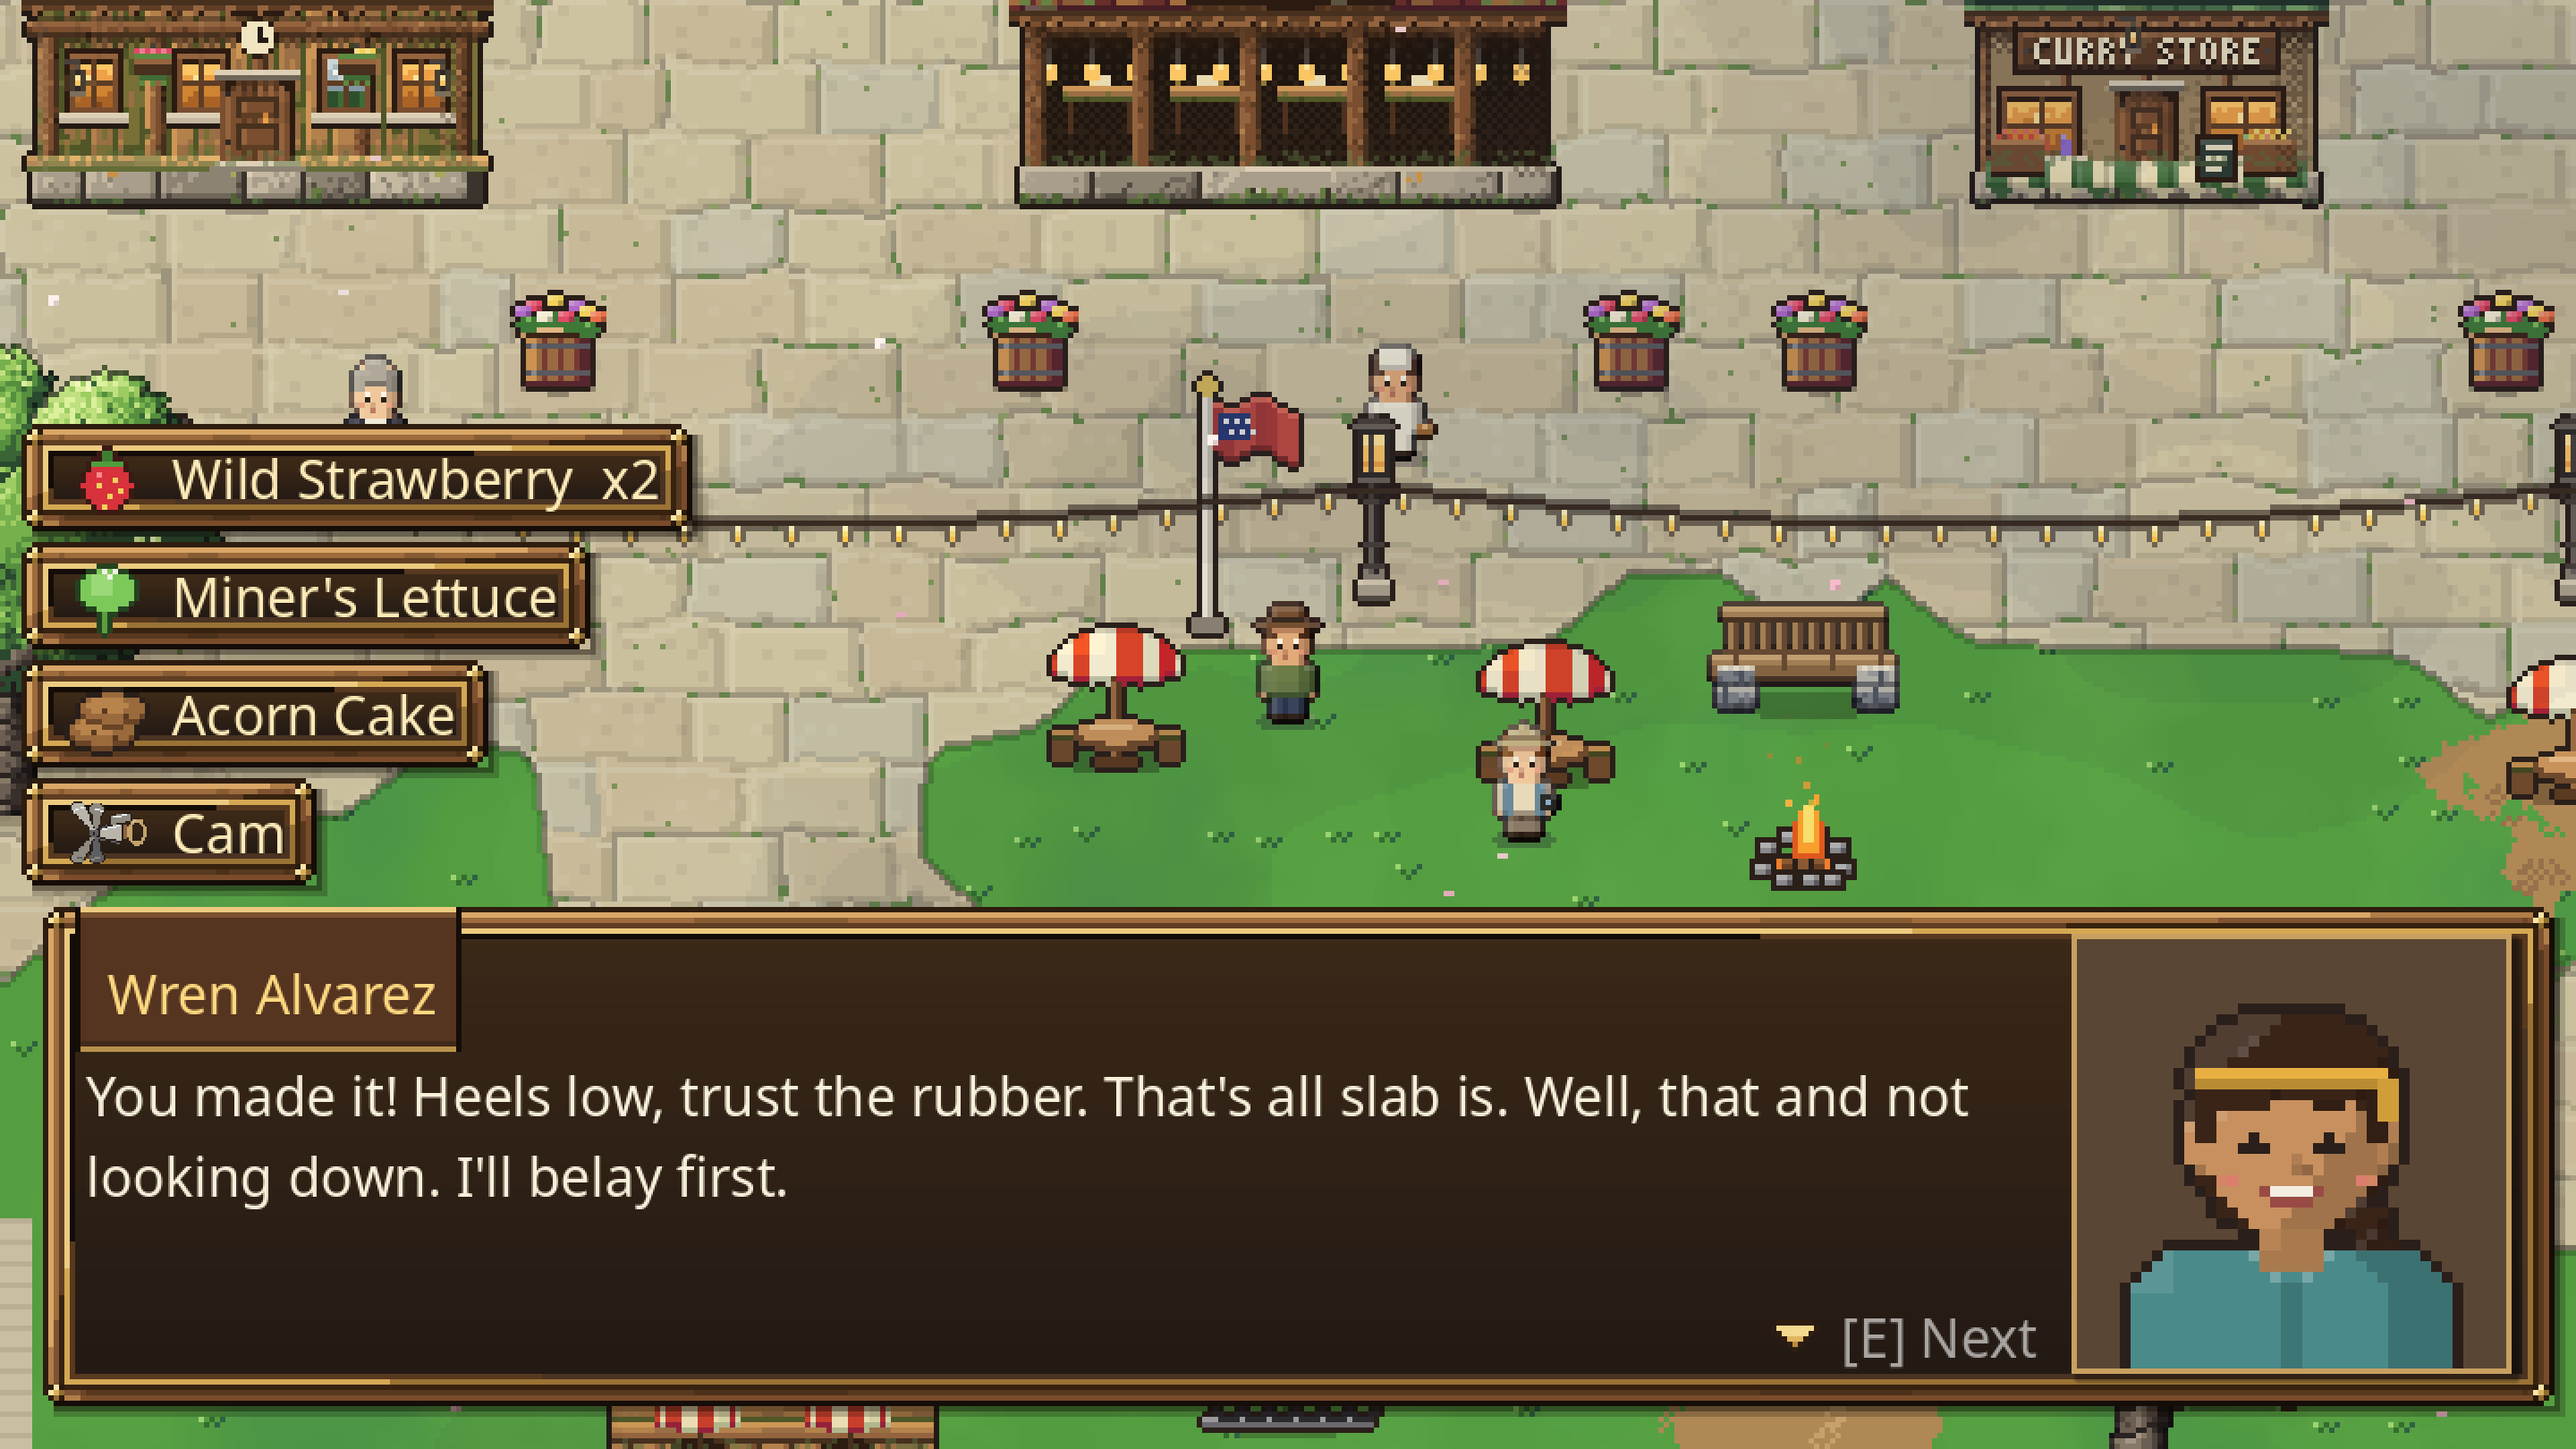
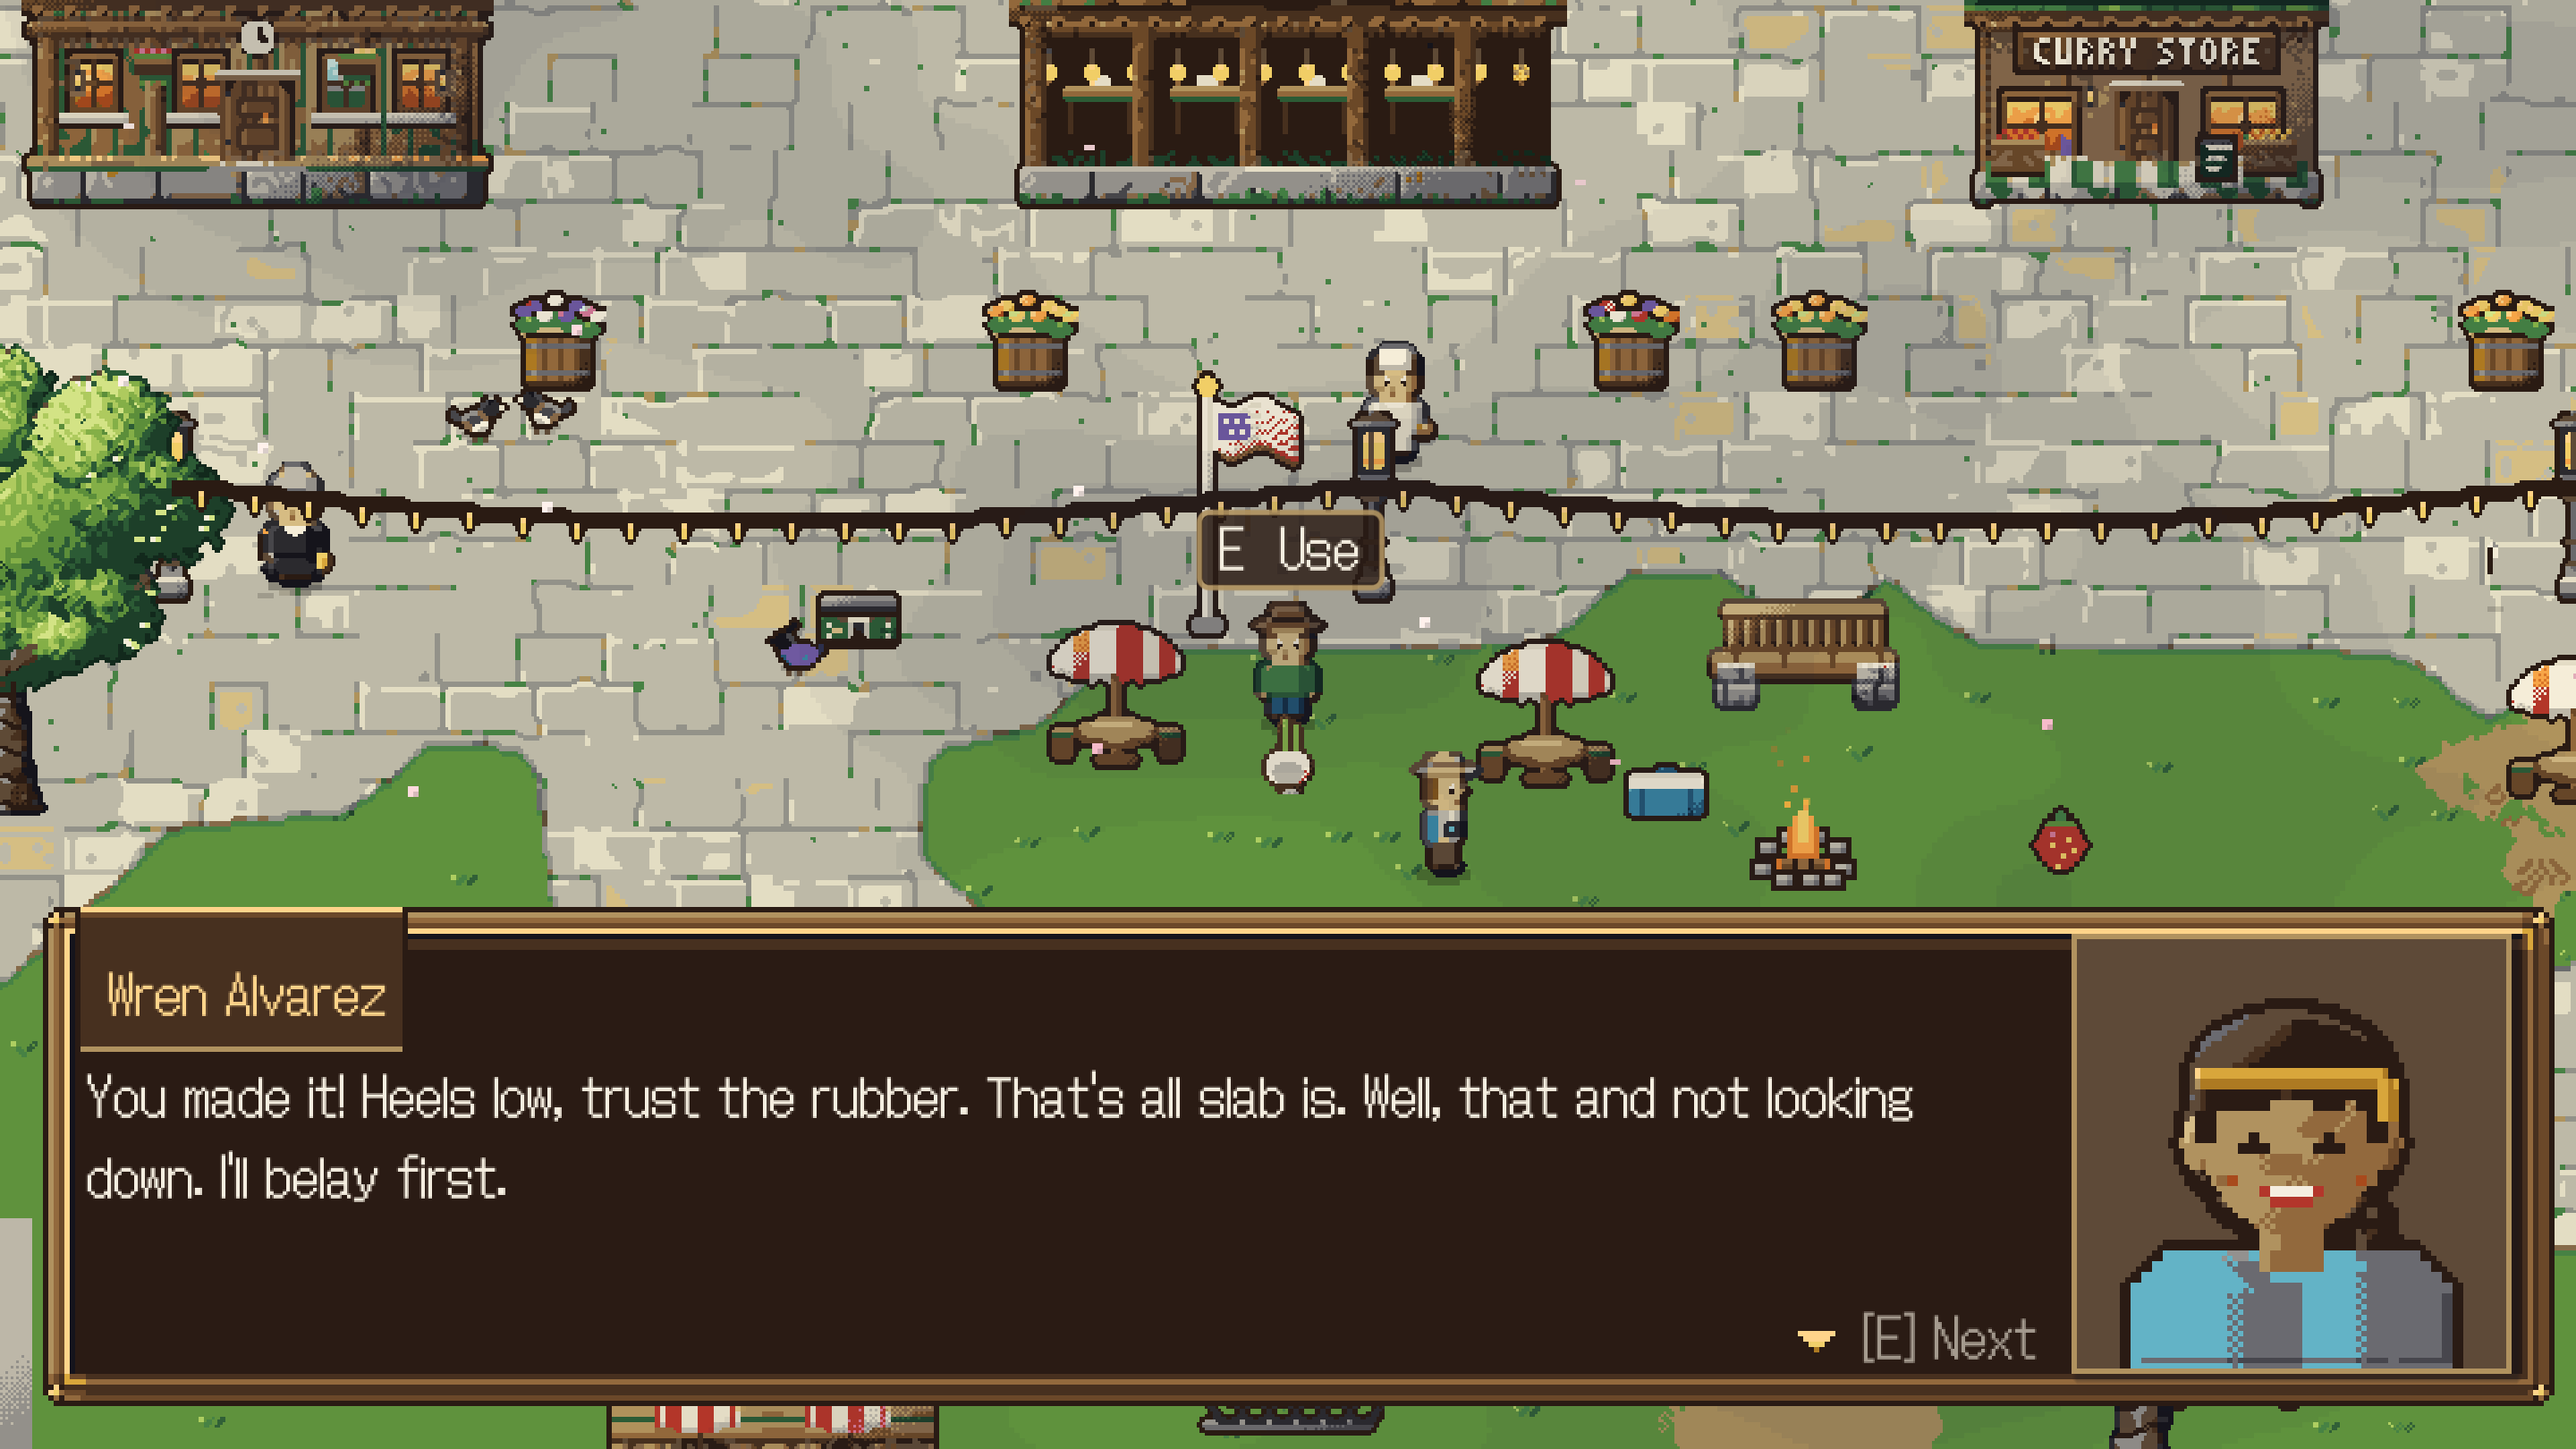
Fix the stripe through menu panels; aim the use prompt at the nearest thing
The panel inset's gradient was snapped by the palette into two tones, and
the lighter tone's last rows sat in the stretched middle of the nine-slice,
so a band an eighth of the panel's height cut through the Journal's and
Backpack's first headings and the day's page's subtitle. The lit edge now
stays inside the unstretched margin (panel.png, panel_banner.png and the
generator in tools/ui/ui_art.gd).

With two interactables in reach, Player.get_target returned whichever
overlapped first; it now picks the one nearest the middle of the reach.
The use prompt fades in when its target changes.

Tests in polish_test cover both; docs screenshots refreshed.

Claude-Session: https://claude.ai/code/session_01WTCnr9L1YLQguoY9DWpjtF

diff --git a/docs/POLISH.md b/docs/POLISH.md
@@ -104,6 +104,11 @@ A seventh and an eighth review (after the game was named Valley Days) scored 6 a
 - **The climb.** Slab holds are readable, the energy bar has a bolt instead of an "E", and move costs are no longer green.
 - **Music.** Each season has a second, afternoon piece.
 
+A later pass found two more things:
+
+- **A stripe through every menu's first line.** The panel's inset was a gradient that the 42-color palette snapped into two tones, and the lighter tone's last two rows fell in the part of the nine-slice that stretches, so a band one eighth of the panel's height cut through the Journal's and Backpack's first headings and the day's page's subtitle. The lit edge now stays in the unstretched margin and the middle is one color (`tools/ui/ui_art.gd`; test: each panel's middle is flat).
+- **The prompt could name the wrong thing.** With a person beside a sign, the use prompt named whichever overlapped first. It now names the one nearest the middle of your reach (`Player.get_target`; test: swapping two things swaps the target), and fades in when it changes.
+
 | Stardew hallmark | Here | Where | Checked by |
 |---|---|---|---|
 | A pixel font that matches the art | DotGothic16 by default (SIL Open Font License, credited with its license), with its Latin letters made proportional (`tools/fonts/proportional.py`) after a fourth review found the fixed-width "i" and "l" left gaps ("Vi l lage"); Settings > Font switches to Noto Sans | `Settings.ui_font`, `apply_font` | test (switches the theme and the climbing screen, saved, pixel by default, an i narrower than an m, license present; every screen checked to fit with both fonts) |
